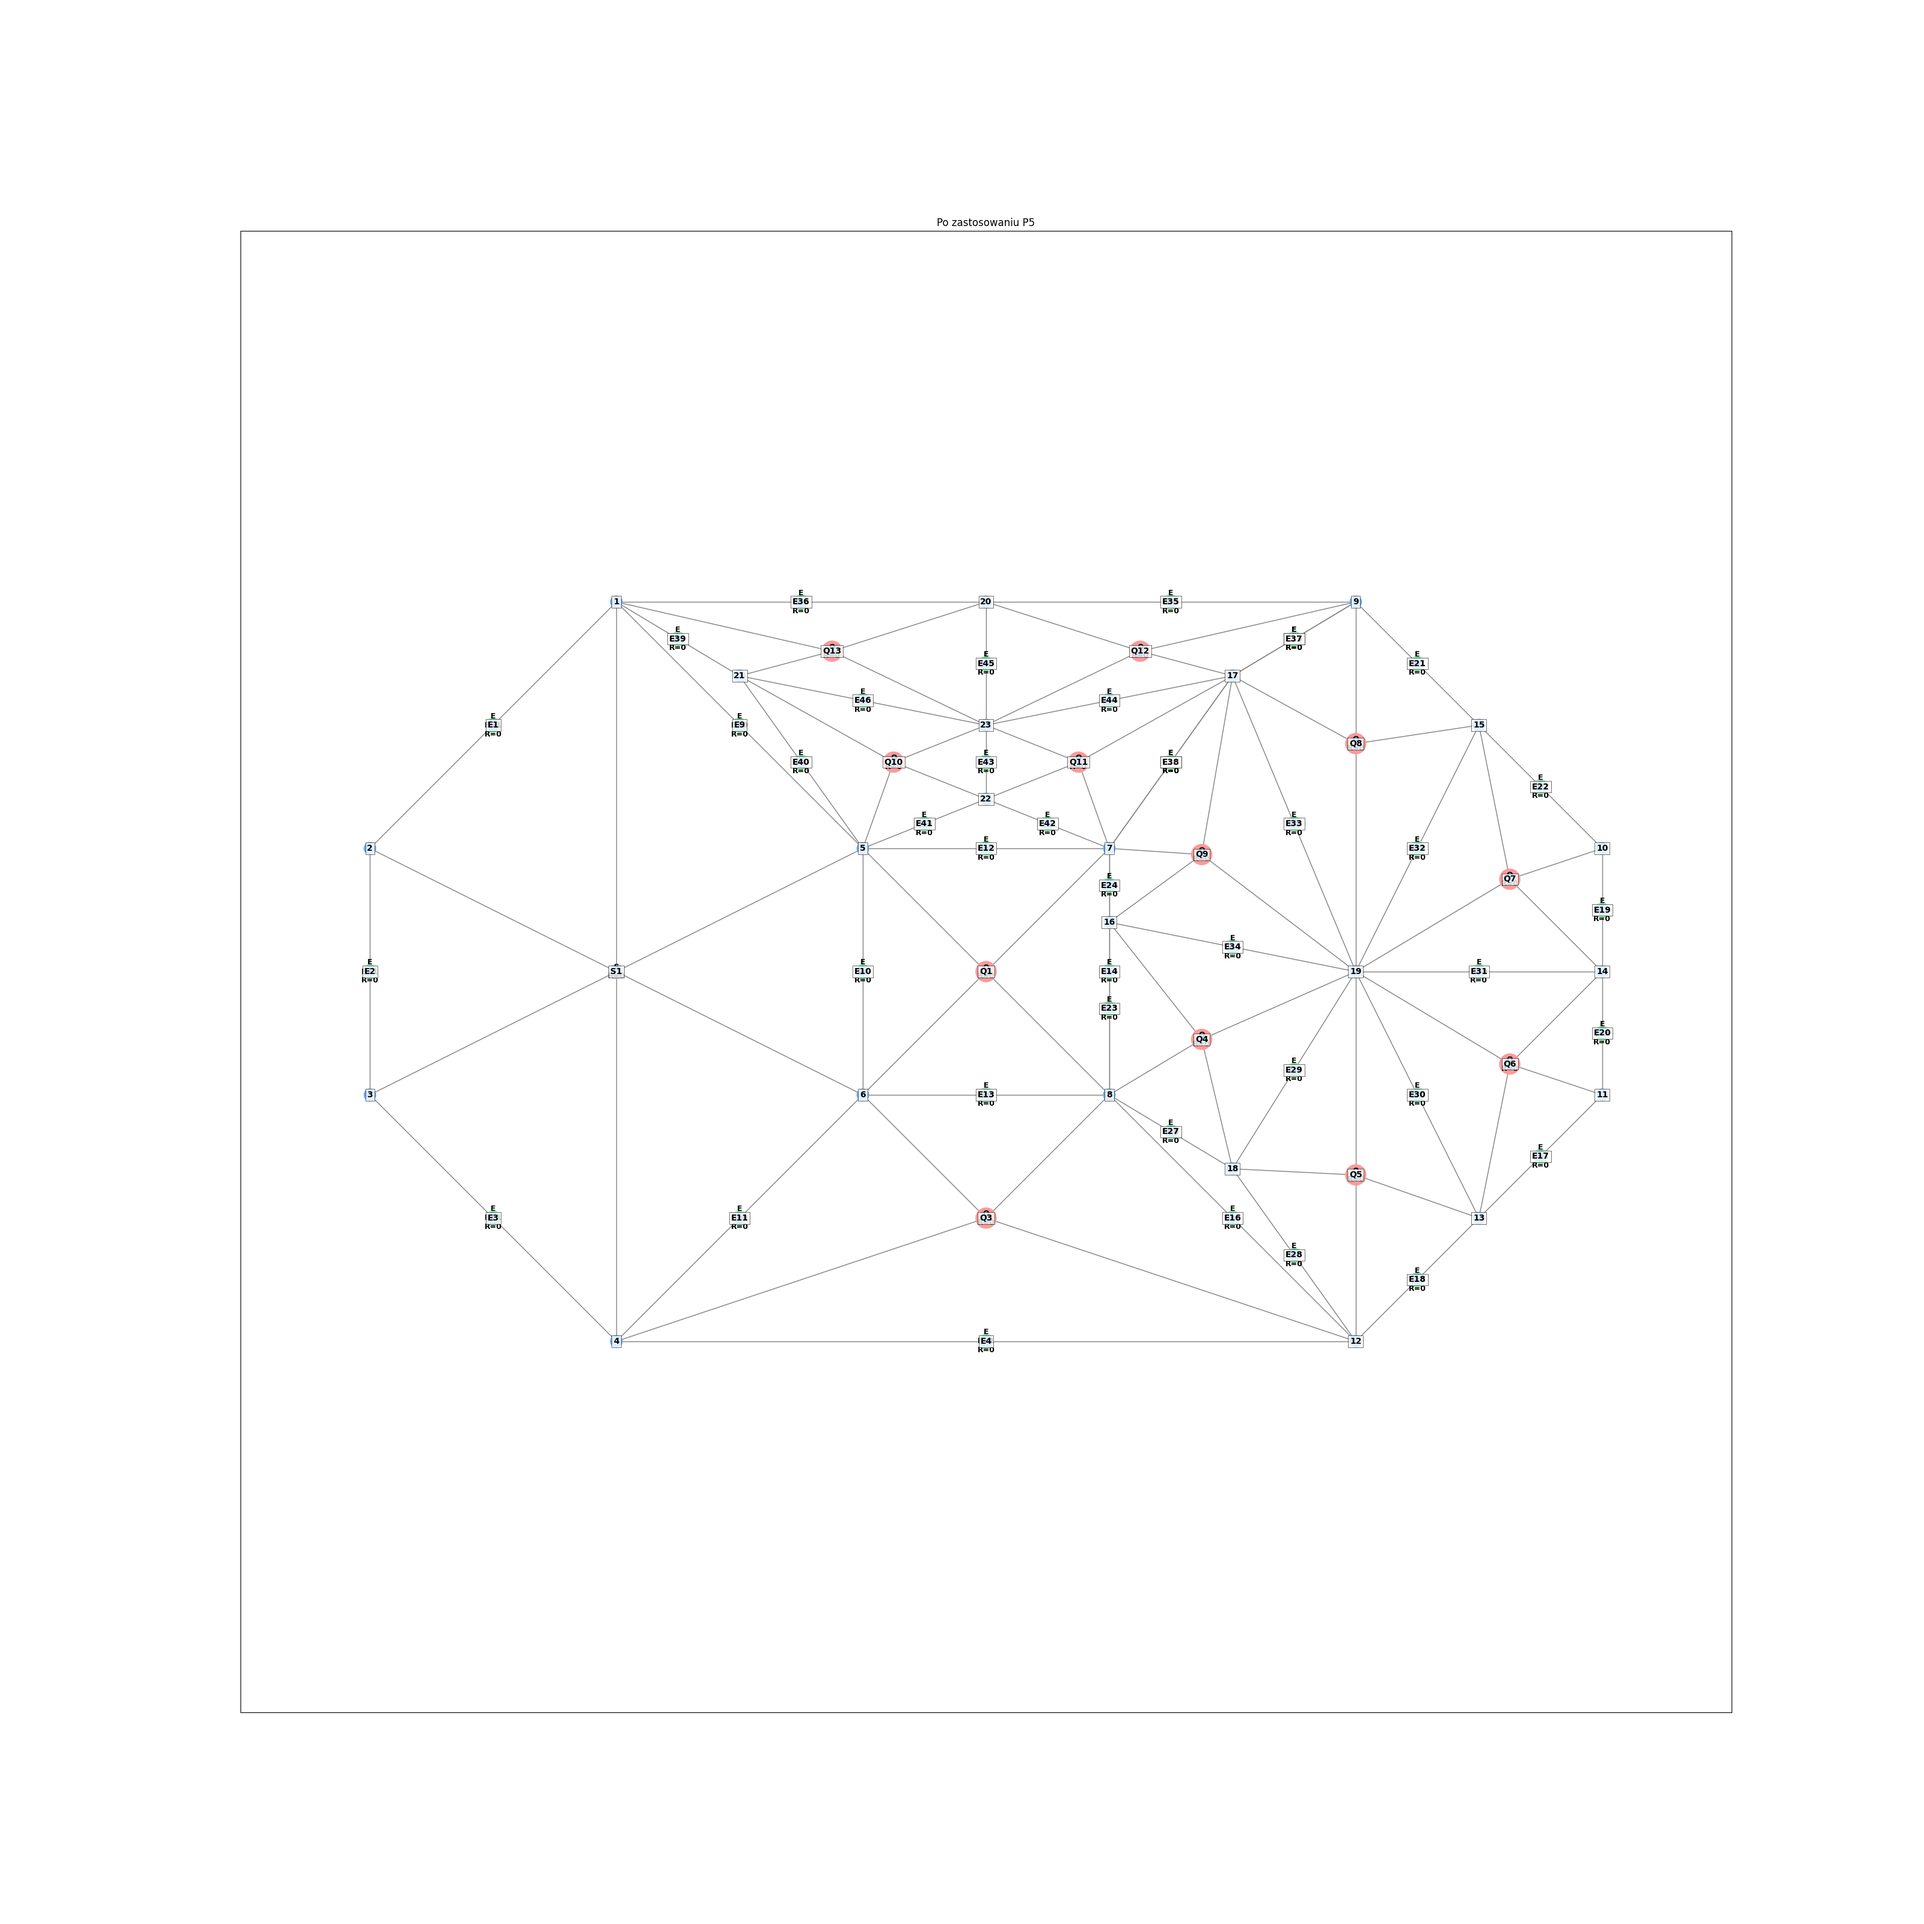
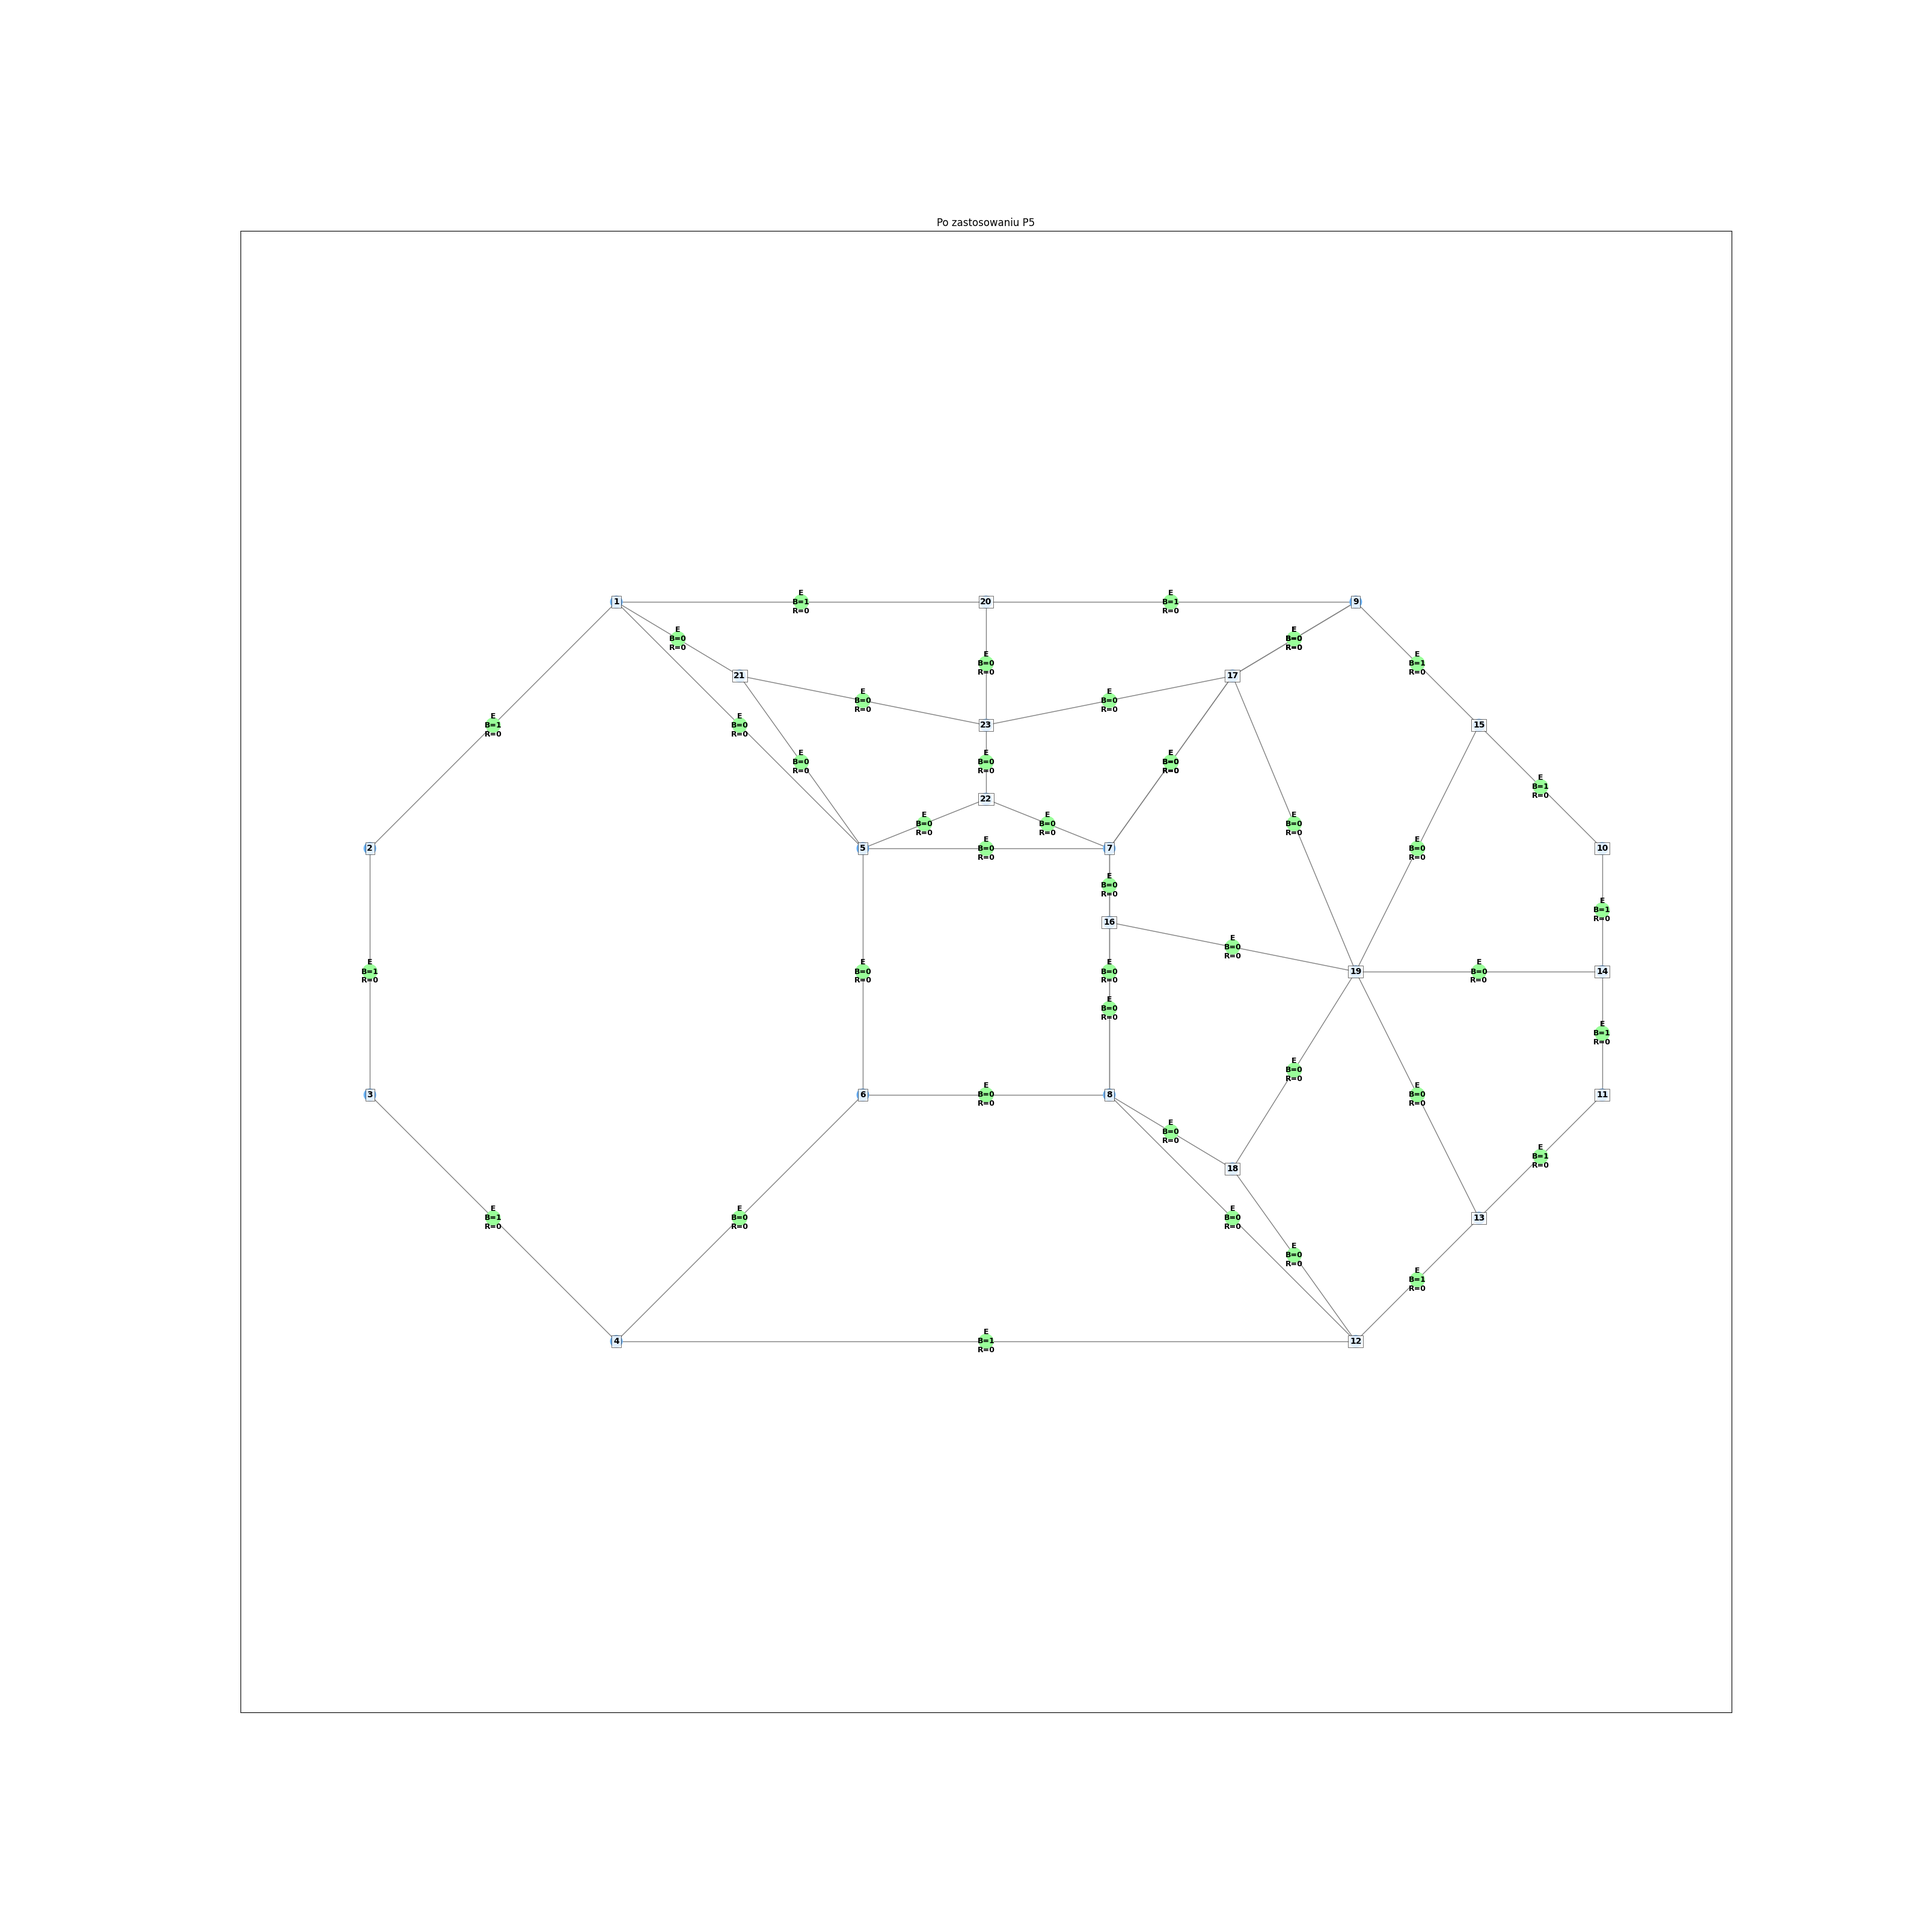
Add next iterations.

diff --git a/src/utils/visualization.py b/src/utils/visualization.py
@@ -34,8 +34,8 @@ def visualize_graph(graph: Graph, title: str, filepath: str = None):
     # 1a. Vertex positions (fixed)
     for node_id, data in nx_graph.nodes(data=True):
         obj = data.get("data")
-        vertex_nodes.append(node_id)
         if isinstance(obj, Vertex):
+            vertex_nodes.append(node_id)
             x, y = obj.x, obj.y
             # Offset dla hanging nodes - aby nie nakładały się z krawędziami
             if obj.hanging:
@@ -73,32 +73,26 @@ def visualize_graph(graph: Graph, title: str, filepath: str = None):
         sizes_v.append(200)
         labels_v[node_id] = f"{node_id}"
         
-    # Hyperedges
+    # Hyperedges (draw only E-type, hide Q/S nodes and labels)
+    hyperedge_nodes_e = []
     for node_id in hyperedge_nodes:
         obj = nx_graph.nodes[node_id]["data"]
-        
-        if obj.label == "Q":
-            colors_h.append("#ff9999") # Red
-            sizes_h.append(600)
-            labels_h[node_id] = f"Q\nR={obj.r}"
-        elif obj.label == "E":
-            colors_h.append("#99ff99") # Green
-            sizes_h.append(300)
-            labels_h[node_id] = f"E\nB={obj.b}\nR={obj.r}"
-        else:
-            colors_h.append("#cccccc") # Grey
-            sizes_h.append(300)
-            labels_h[node_id] = f"{obj.label}\nR={obj.r}"
+        if obj.label != "E":
+            continue
+        hyperedge_nodes_e.append(node_id)
+        colors_h.append("#99ff99") # Green
+        sizes_h.append(300)
+        labels_h[node_id] = f"E\nB={obj.b}\nR={obj.r}"
 
     # 3. Drawing - Layered Approach
     plt.figure(figsize=(32, 32))
     
-    # Layer 1: Hyperedges (Background)
-    if hyperedge_nodes:
+    # Layer 1: Hyperedges (Background) - only E-type
+    if hyperedge_nodes_e:
         nx.draw_networkx_nodes(
             nx_graph,
             pos,
-            nodelist=hyperedge_nodes,
+            nodelist=hyperedge_nodes_e,
             node_color=colors_h,
             node_size=sizes_h,
             label="Hyperedges"
@@ -111,13 +105,24 @@ def visualize_graph(graph: Graph, title: str, filepath: str = None):
             font_size=9,
             font_weight="bold"
         )
-    
-    # Layer 2: Edges (Middle)
-    nx.draw_networkx_edges(
-        nx_graph,
-        pos,
-        edge_color="gray"
-    )
+
+    # Layer 2: Edges (Middle) - only edges incident to E-type hyperedges
+    edges_to_draw = []
+    for u, v in nx_graph.edges():
+        obj_u = nx_graph.nodes[u].get("data")
+        obj_v = nx_graph.nodes[v].get("data")
+        if isinstance(obj_u, Hyperedge) and getattr(obj_u, "label", None) == "E" and isinstance(obj_v, Vertex):
+            edges_to_draw.append((u, v))
+        elif isinstance(obj_v, Hyperedge) and getattr(obj_v, "label", None) == "E" and isinstance(obj_u, Vertex):
+            edges_to_draw.append((u, v))
+
+    if edges_to_draw:
+        nx.draw_networkx_edges(
+            nx_graph,
+            pos,
+            edgelist=edges_to_draw,
+            edge_color="gray"
+        )
         
     # Layer 3: Vertices (Foreground)
     if vertex_nodes:

diff --git a/main.py b/main.py
@@ -149,6 +149,34 @@ if __name__ == "__main__":
     visualize_graph(graph, "Po zastosowaniu P3 ponownie", filepath="visualizations/step10.png")
     p5.apply(graph)
     visualize_graph(graph, "Po zastosowaniu P5", filepath="visualizations/step11.png")
+    p2.apply(graph)
+    visualize_graph(graph, "Po zastosowaniu P2 ponownie", filepath="visualizations/step12.png")
+
+    # Druga iteracja
+    p0.apply(graph, target_id="Q8")
+    visualize_graph(graph, "Po drugiej iteracji P0", filepath="visualizations/step13.png")
+    p1.apply(graph)
+    visualize_graph(graph, "Po drugiej iteracji P1", filepath="visualizations/step14.png")
+    p4.apply(graph)
+    visualize_graph(graph, "Po drugiej iteracji P4", filepath="visualizations/step15.png")
+    p3.apply(graph)
+    visualize_graph(graph, "Po drugiej iteracji P3", filepath="visualizations/step16.png")
+    p5.apply(graph)
+    visualize_graph(graph, "Po drugiej iteracji P5", filepath="visualizations/step17.png")
+    
+    p0.apply(graph, target_id="Q12")
+    visualize_graph(graph, "Po trzeciej iteracji P0", filepath="visualizations/step18.png")
+    p1.apply(graph)
+    visualize_graph(graph, "Po trzeciej iteracji P1", filepath="visualizations/step19.png")
+    p4.apply(graph)
+    visualize_graph(graph, "Po trzeciej iteracji P4", filepath="visualizations/step20.png")
+    p2.apply(graph)
+    visualize_graph(graph, "Po trzeciej iteracji P2", filepath="visualizations/step21.png")
+    p3.apply(graph)
+    visualize_graph(graph, "Po trzeciej iteracji P3", filepath="visualizations/step22.png")
+    p5.apply(graph)
+    visualize_graph(graph, "Po trzeciej iteracji P5", filepath="visualizations/step23.png")
+
 
     
 
